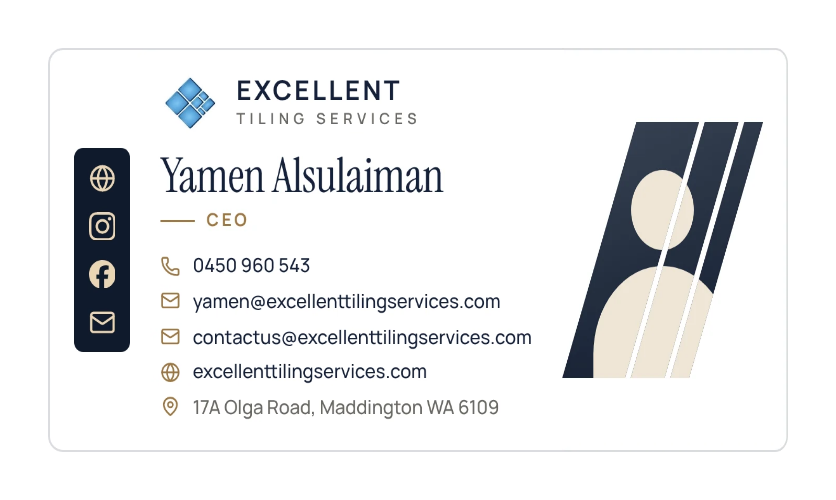
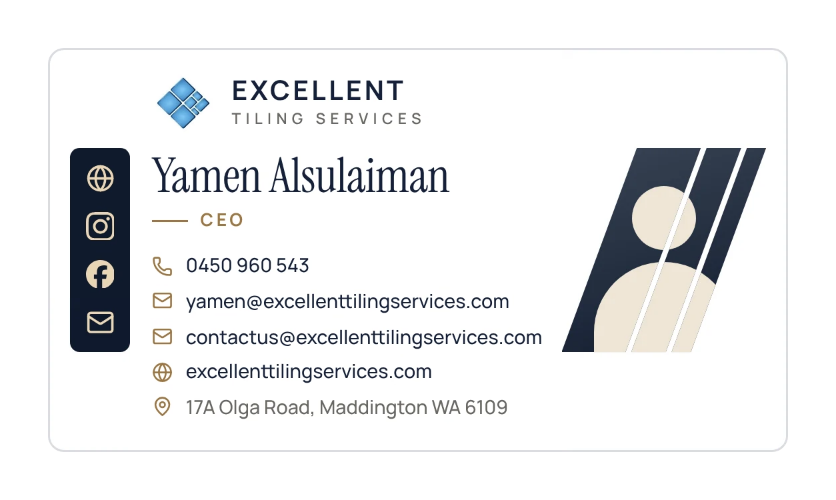
Email signature: owner's narrower pieces hosted, links updated
Claude-Session: https://claude.ai/code/session_01GgaKx3bXDJYD5g8dhmqHc3

diff --git a/marketing/email-signature/people/yamen-alsulaiman/signature.html b/marketing/email-signature/people/yamen-alsulaiman/signature.html
@@ -1,6 +1,6 @@
 <!-- ETS email signature for Yamen Alsulaiman. Made by build.js - edit there, not here. -->
 <table cellpadding="0" cellspacing="0" border="0" style="border-collapse:collapse;"><tr>
-<td style="padding:0;vertical-align:top;font-size:0;line-height:0;"><a href="https://excellenttilingservices.com" style="text-decoration:none;"><img src="https://cdn.shopify.com/s/files/1/0683/0292/9983/files/ets-sig-yamen-alsulaiman-strip-website.png?v=1794456897" width="41" height="77" alt="Website" style="display:block;border:0;outline:none;"></a><a href="https://www.instagram.com/excellent_tiling_services/" style="text-decoration:none;"><img src="https://cdn.shopify.com/s/files/1/0683/0292/9983/files/ets-sig-yamen-alsulaiman-strip-instagram.png?v=1794456897" width="41" height="24" alt="Instagram" style="display:block;border:0;outline:none;"></a><a href="https://www.facebook.com/share/1943ueL61k/" style="text-decoration:none;"><img src="https://cdn.shopify.com/s/files/1/0683/0292/9983/files/ets-sig-yamen-alsulaiman-strip-facebook.png?v=1794456897" width="41" height="24" alt="Facebook" style="display:block;border:0;outline:none;"></a><a href="mailto:yamen@excellenttilingservices.com" style="text-decoration:none;"><img src="https://cdn.shopify.com/s/files/1/0683/0292/9983/files/ets-sig-yamen-alsulaiman-strip-email.png?v=1794456897" width="41" height="77" alt="Email" style="display:block;border:0;outline:none;"></a></td>
-<td style="padding:0;vertical-align:top;font-size:0;line-height:0;"><a href="https://excellenttilingservices.com" style="text-decoration:none;"><img src="https://cdn.shopify.com/s/files/1/0683/0292/9983/files/ets-sig-yamen-alsulaiman-logo.png?v=1794456897" width="216" height="46" alt="Excellent Tiling Services" style="display:block;border:0;outline:none;"></a><img src="https://cdn.shopify.com/s/files/1/0683/0292/9983/files/ets-sig-yamen-alsulaiman-name.png?v=1794456897" width="216" height="51" alt="Yamen Alsulaiman, CEO" style="display:block;border:0;outline:none;"><a href="tel:+61450960543" style="text-decoration:none;"><img src="https://cdn.shopify.com/s/files/1/0683/0292/9983/files/ets-sig-yamen-alsulaiman-phone.png?v=1794456897" width="216" height="21" alt="0450 960 543" style="display:block;border:0;outline:none;"></a><a href="mailto:yamen@excellenttilingservices.com" style="text-decoration:none;"><img src="https://cdn.shopify.com/s/files/1/0683/0292/9983/files/ets-sig-yamen-alsulaiman-email.png?v=1794456897" width="216" height="17" alt="yamen@excellenttilingservices.com" style="display:block;border:0;outline:none;"></a><a href="mailto:contactus@excellenttilingservices.com" style="text-decoration:none;"><img src="https://cdn.shopify.com/s/files/1/0683/0292/9983/files/ets-sig-yamen-alsulaiman-shop-email.png?v=1794456897" width="216" height="18" alt="contactus@excellenttilingservices.com" style="display:block;border:0;outline:none;"></a><a href="https://excellenttilingservices.com" style="text-decoration:none;"><img src="https://cdn.shopify.com/s/files/1/0683/0292/9983/files/ets-sig-yamen-alsulaiman-website.png?v=1794456897" width="216" height="18" alt="excellenttilingservices.com" style="display:block;border:0;outline:none;"></a><a href="https://www.google.com/maps/search/?api=1&amp;amp;query=17A+Olga+Road+Maddington+WA+6109" style="text-decoration:none;"><img src="https://cdn.shopify.com/s/files/1/0683/0292/9983/files/ets-sig-yamen-alsulaiman-address.png?v=1794456897" width="216" height="31" alt="17A Olga Road, Maddington WA 6109" style="display:block;border:0;outline:none;"></a></td>
-<td style="padding:0;vertical-align:top;font-size:0;line-height:0;"><img src="https://cdn.shopify.com/s/files/1/0683/0292/9983/files/ets-sig-yamen-alsulaiman-photo.png?v=1794456897" width="113" height="202" alt="" style="display:block;border:0;outline:none;"></td>
+<td style="padding:0;vertical-align:top;font-size:0;line-height:0;"><a href="https://excellenttilingservices.com" style="text-decoration:none;"><img src="https://cdn.shopify.com/s/files/1/0683/0292/9983/files/ets-sig-yamen-alsulaiman-strip-website.png?v=1794457104" width="41" height="77" alt="Website" style="display:block;border:0;outline:none;"></a><a href="https://www.instagram.com/excellent_tiling_services/" style="text-decoration:none;"><img src="https://cdn.shopify.com/s/files/1/0683/0292/9983/files/ets-sig-yamen-alsulaiman-strip-instagram.png?v=1794457104" width="41" height="24" alt="Instagram" style="display:block;border:0;outline:none;"></a><a href="https://www.facebook.com/share/1943ueL61k/" style="text-decoration:none;"><img src="https://cdn.shopify.com/s/files/1/0683/0292/9983/files/ets-sig-yamen-alsulaiman-strip-facebook.png?v=1794457104" width="41" height="24" alt="Facebook" style="display:block;border:0;outline:none;"></a><a href="mailto:yamen@excellenttilingservices.com" style="text-decoration:none;"><img src="https://cdn.shopify.com/s/files/1/0683/0292/9983/files/ets-sig-yamen-alsulaiman-strip-email.png?v=1794457104" width="41" height="77" alt="Email" style="display:block;border:0;outline:none;"></a></td>
+<td style="padding:0;vertical-align:top;font-size:0;line-height:0;"><a href="https://excellenttilingservices.com" style="text-decoration:none;"><img src="https://cdn.shopify.com/s/files/1/0683/0292/9983/files/ets-sig-yamen-alsulaiman-logo.png?v=1794457104" width="216" height="46" alt="Excellent Tiling Services" style="display:block;border:0;outline:none;"></a><img src="https://cdn.shopify.com/s/files/1/0683/0292/9983/files/ets-sig-yamen-alsulaiman-name.png?v=1794457104" width="216" height="51" alt="Yamen Alsulaiman, CEO" style="display:block;border:0;outline:none;"><a href="tel:+61450960543" style="text-decoration:none;"><img src="https://cdn.shopify.com/s/files/1/0683/0292/9983/files/ets-sig-yamen-alsulaiman-phone.png?v=1794457104" width="216" height="21" alt="0450 960 543" style="display:block;border:0;outline:none;"></a><a href="mailto:yamen@excellenttilingservices.com" style="text-decoration:none;"><img src="https://cdn.shopify.com/s/files/1/0683/0292/9983/files/ets-sig-yamen-alsulaiman-email.png?v=1794457104" width="216" height="17" alt="yamen@excellenttilingservices.com" style="display:block;border:0;outline:none;"></a><a href="mailto:contactus@excellenttilingservices.com" style="text-decoration:none;"><img src="https://cdn.shopify.com/s/files/1/0683/0292/9983/files/ets-sig-yamen-alsulaiman-shop-email.png?v=1794457104" width="216" height="18" alt="contactus@excellenttilingservices.com" style="display:block;border:0;outline:none;"></a><a href="https://excellenttilingservices.com" style="text-decoration:none;"><img src="https://cdn.shopify.com/s/files/1/0683/0292/9983/files/ets-sig-yamen-alsulaiman-website.png?v=1794457104" width="216" height="18" alt="excellenttilingservices.com" style="display:block;border:0;outline:none;"></a><a href="https://www.google.com/maps/search/?api=1&amp;amp;query=17A+Olga+Road+Maddington+WA+6109" style="text-decoration:none;"><img src="https://cdn.shopify.com/s/files/1/0683/0292/9983/files/ets-sig-yamen-alsulaiman-address.png?v=1794457104" width="216" height="31" alt="17A Olga Road, Maddington WA 6109" style="display:block;border:0;outline:none;"></a></td>
+<td style="padding:0;vertical-align:top;font-size:0;line-height:0;"><img src="https://cdn.shopify.com/s/files/1/0683/0292/9983/files/ets-sig-yamen-alsulaiman-photo.png?v=1794457104" width="113" height="202" alt="" style="display:block;border:0;outline:none;"></td>
 </tr></table>

diff --git a/marketing/email-signature/README.md b/marketing/email-signature/README.md
@@ -77,6 +77,9 @@ Icons: Lucide (ISC licence) and Simple Icons (CC0). Fonts: Manrope and Instrumen
   pieces are on Shopify Files (`ets-sig-yamen-alsulaiman-*.png`) and linked in `hosted.json`.
 - 2026-11-12: card shrunk to 80% (415px wide, `SCALE` at the top of `build.js`) after the owner found 518px too big
   in Outlook. His 12 files were replaced in place.
+- 2026-11-12: made narrower again at the owner's request (370px wide): tighter side spacing and a smaller photo
+  panel (`K` in `photoHtml`). Note: the preview loads the online images, so after a size change it looks stretched
+  until the new pieces are uploaded and `hosted.json` is updated.
 - Leftovers on Shopify Files from the first version, no longer used: 11 files named `ets-signature-*.png`
   (logo, icons, name, placeholder). Safe to delete, but only on the owner's instruction.
 - Note: the colours were read from the live site, not from `theme/assets/ets-brand.css` in this repo, which still has
